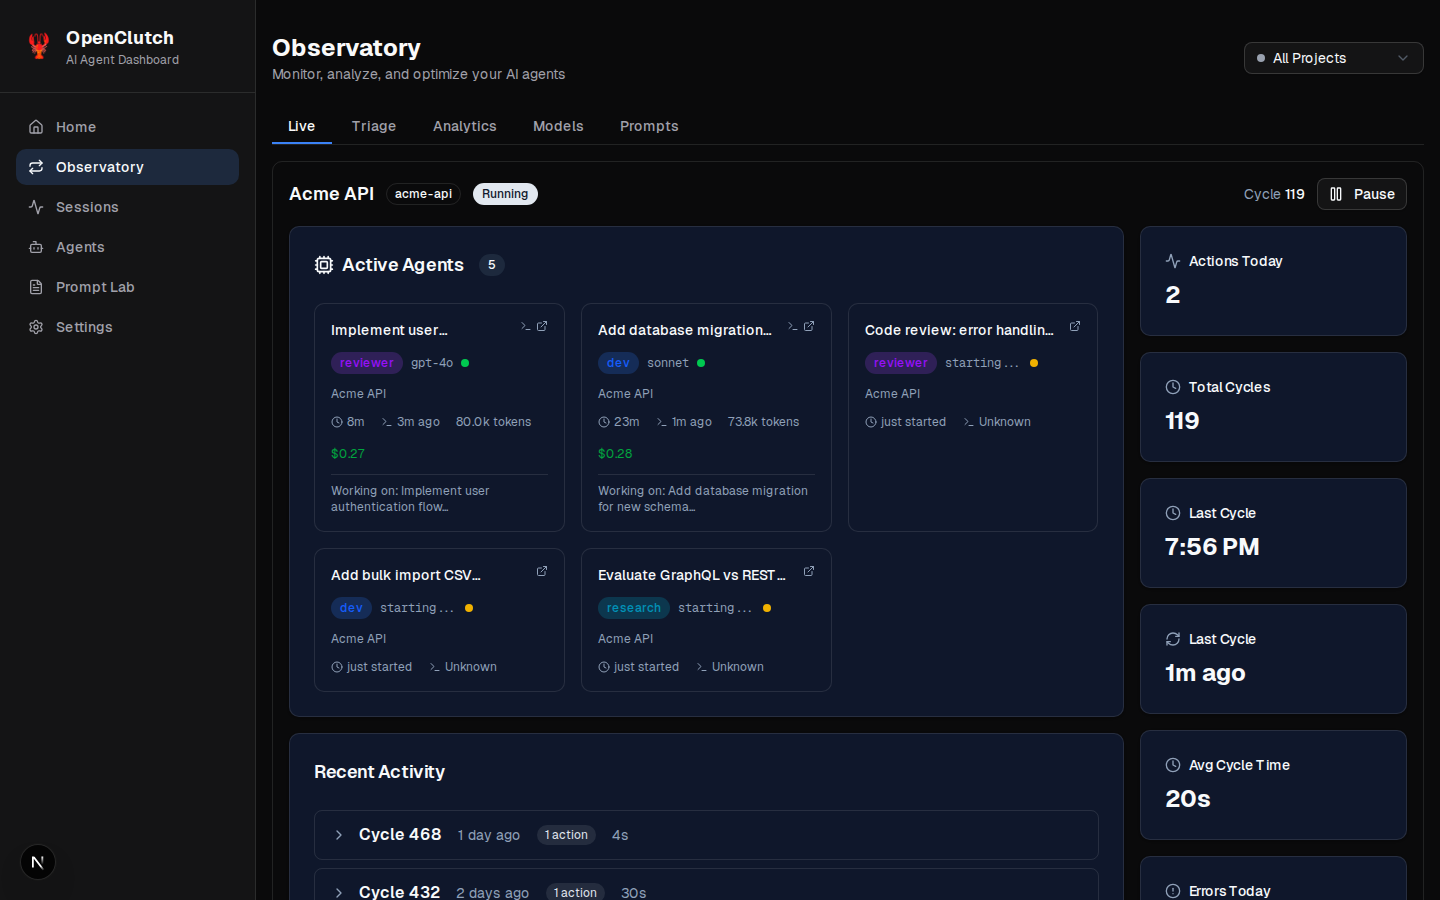
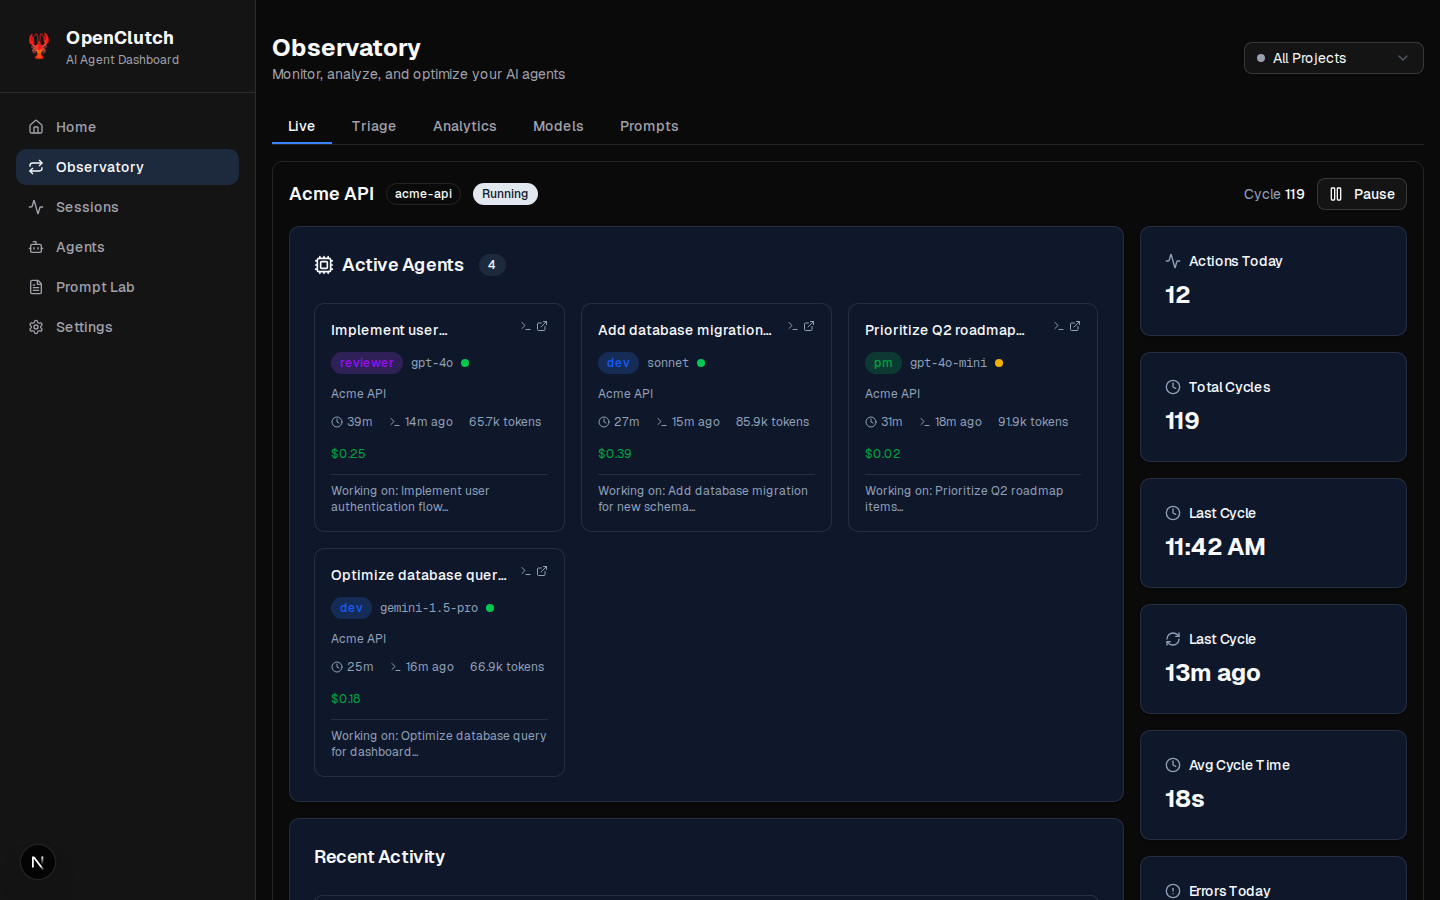
docs: retake demo screenshots with fixed seed data (#667)
docs: retake demo screenshots with fixed seed data, fix port mismatch in screenshot script

diff --git a/scripts/demo-screenshots.ts b/scripts/demo-screenshots.ts
@@ -38,7 +38,7 @@ function verifyDemoEnvironment(): void {
   console.log("✅ Demo environment verified")
 }
 
-const BASE_URL = "http://localhost:3003"
+const BASE_URL = "http://localhost:3002"
 const OUTPUT_DIR = "./docs"
 const MAX_WAIT_MS = 15000
 const WARNING_THRESHOLD_MS = 10000
@@ -378,7 +378,7 @@ async function main() {
     }
   } catch {
     console.error("❌ Dev server not responding at", BASE_URL)
-    console.error("   Make sure to run: PORT=3003 pnpm dev")
+    console.error("   Make sure to run: pnpm demo:dev")
     process.exit(1)
   }
 
